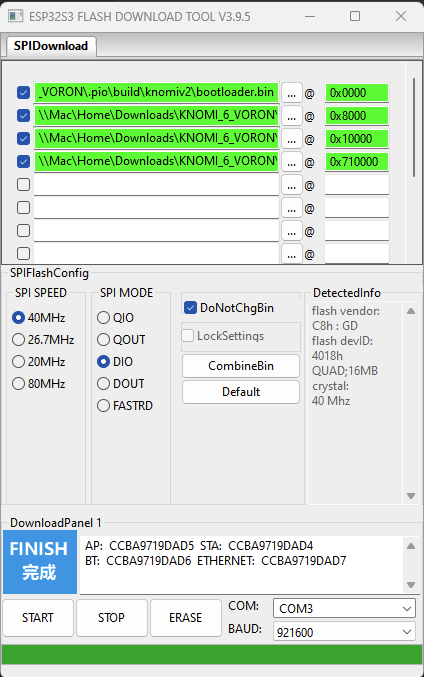
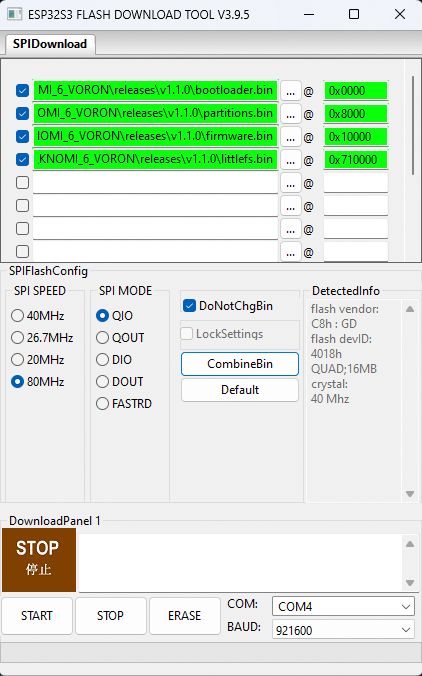
fix: Critical flash settings - QIO mode and correct LittleFS address
- Change SPI mode from DIO to QIO (required for boot)
- Fix LittleFS address: 0x710000 (was incorrectly 0x310000)
- Standardize bootloader address: 0x0000 (was 0x0)
- Add step-by-step flash guide images (Steps 1-7)
- Anonymize sensitive info in screenshots

This fixes the boot failure issue where displays would not turn on
after flashing with the documented settings. The incorrect LittleFS
address and DIO mode prevented successful boot.

Images added:
- flash_tool_example_1_erase.png & _shell.png
- flash_tool_example_2_start.png & _shell.png
- flash_tool_example_3_stop.png
- flash_tool_example_4_new_shell.png
- flash_tool_example_5_new_prompt.png (anonymized)
- flash_tool_example_6_DEBUG_output.png
- wifi_setup_7.png (anonymized IP & SSIDs)
- flash_tool_example_old_slow.png (reference)

Settings confirmed working:
- SPI MODE: QIO
- SPI SPEED: 80MHz
- BAUD: 921600

Changed region(s): [[0.0, 0.0, 1.0, 1.0], [0.4313, 0.4349, 0.7085, 0.6213]]

diff --git a/releases/v1.1.0/README.md b/releases/v1.1.0/README.md
@@ -40,11 +40,11 @@ pip install esptool
 ```bash
 esptool.py --chip esp32s3 --port /dev/ttyUSB0 --baud 921600 \
   --before default_reset --after hard_reset write_flash -z \
-  --flash_mode dio --flash_freq 80m --flash_size 16MB \
-  0x0 bootloader.bin \
+  --flash_mode qio --flash_freq 80m --flash_size 16MB \
+  0x0000 bootloader.bin \
   0x8000 partitions.bin \
   0x10000 firmware.bin \
-  0x310000 littlefs.bin
+  0x710000 littlefs.bin
 ```
 
 **Note:** Replace `/dev/ttyUSB0` with your serial port:
@@ -71,10 +71,10 @@ This preserves your WiFi credentials and Moonraker configuration.
 
 | Address | Size | Contents |
 |---------|------|----------|
-| 0x0 | 15KB | Bootloader |
+| 0x0000 | 15KB | Bootloader |
 | 0x8000 | 3KB | Partition Table |
 | 0x10000 | 2.8MB | Firmware Application |
-| 0x310000 | 8.9MB | LittleFS Filesystem (GIFs) |
+| 0x710000 | 8.9MB | LittleFS Filesystem (GIFs) |
 
 ## 🔍 Verification
 

diff --git a/releases/README.md b/releases/README.md
@@ -24,11 +24,11 @@ This folder contains pre-compiled firmware binaries for KNOMI V2 displays, ready
 cd releases/v1.1.0/
 esptool.py --chip esp32s3 --port /dev/ttyUSB0 --baud 921600 \
   --before default_reset --after hard_reset write_flash -z \
-  --flash_mode dio --flash_freq 80m --flash_size 16MB \
-  0x0 bootloader.bin \
+  --flash_mode qio --flash_freq 80m --flash_size 16MB \
+  0x0000 bootloader.bin \
   0x8000 partitions.bin \
   0x10000 firmware.bin \
-  0x310000 littlefs.bin
+  0x710000 littlefs.bin
 ```
 
 ### Firmware-Only Update
